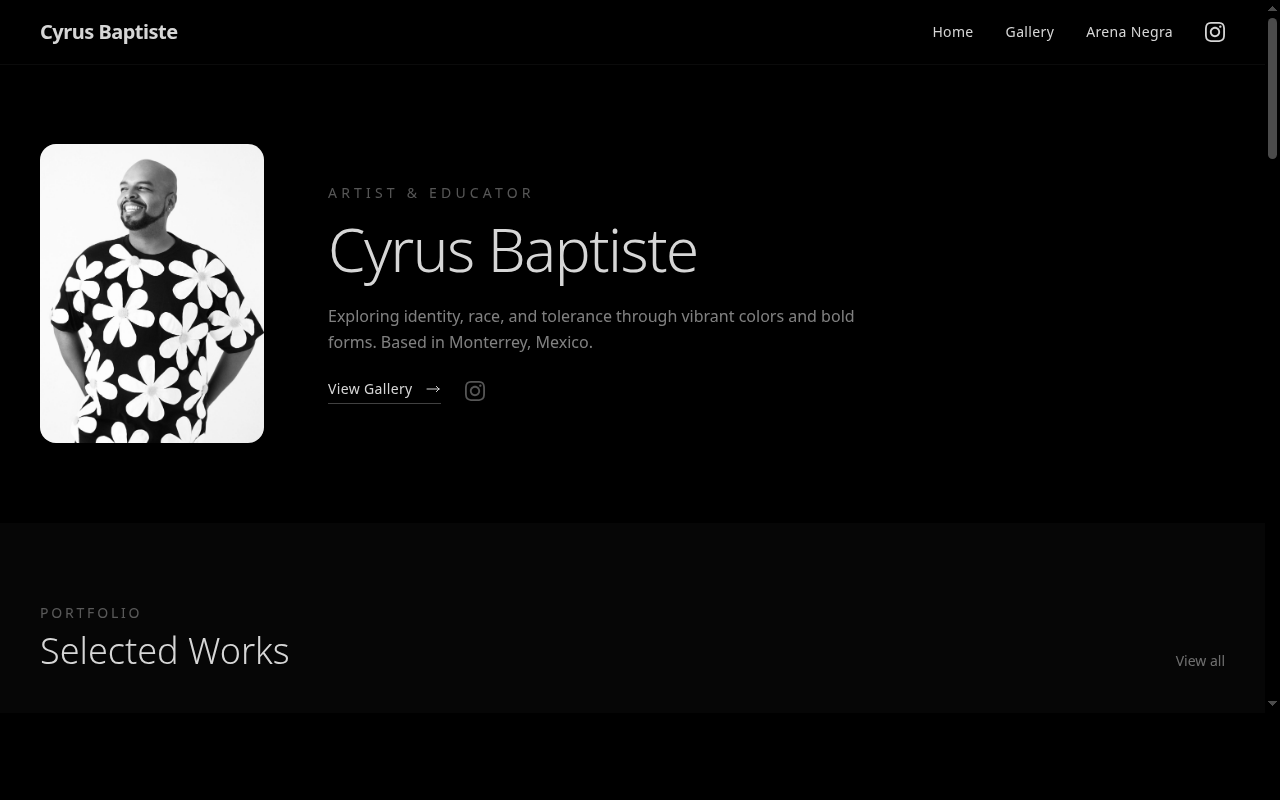
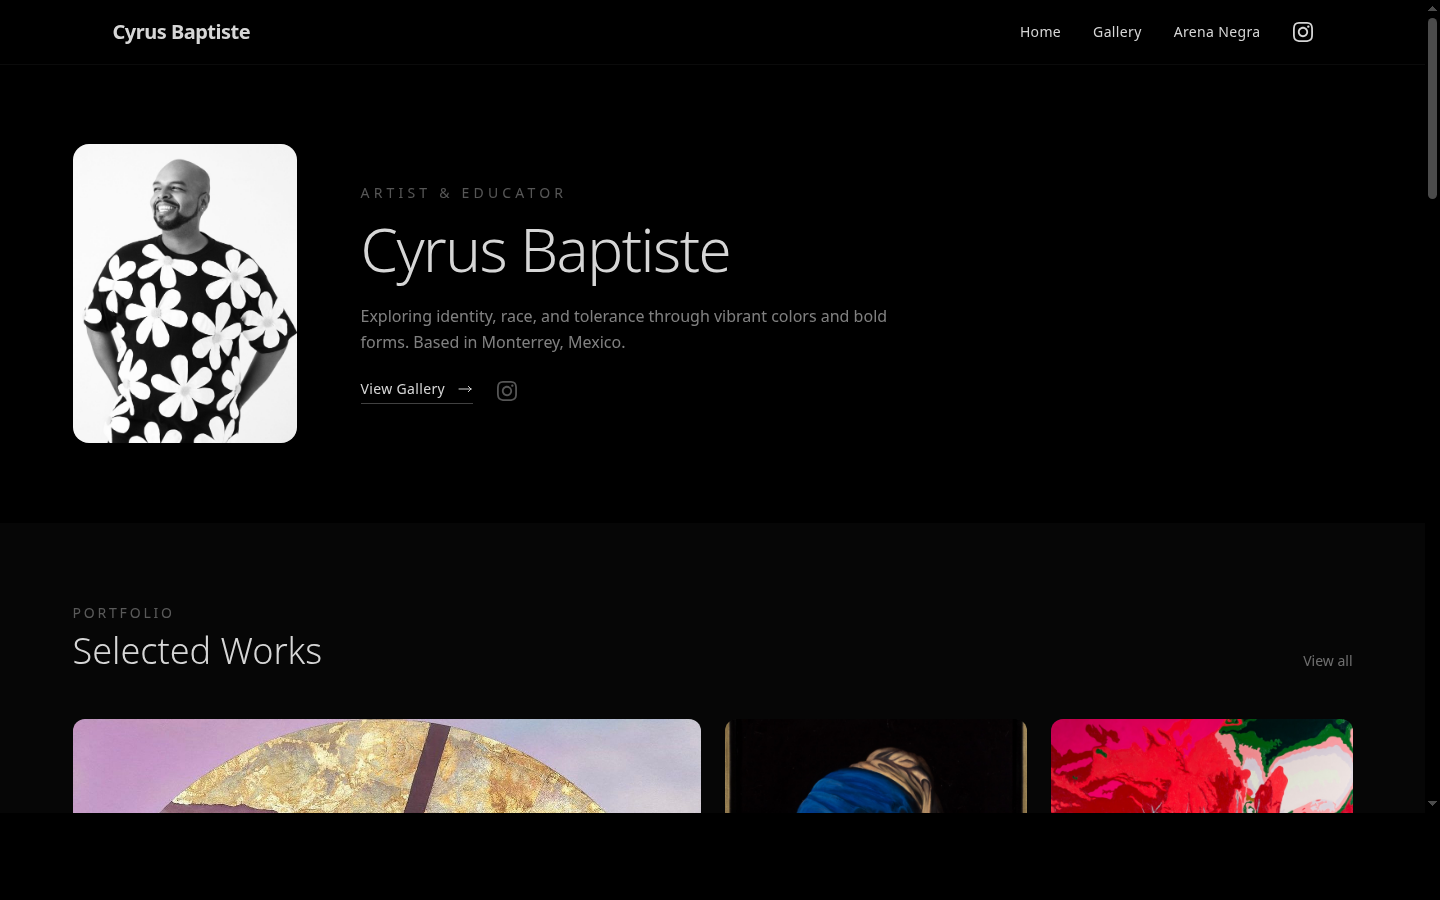
Add real screenshots from live sites as static assets

diff --git a/app/javascript/components/Works.jsx b/app/javascript/components/Works.jsx
@@ -60,7 +60,7 @@ const MY_PROJECTS = [
       { name: 'Active Storage' },
       { name: 'Kamal' },
     ],
-    image: 'https://image.thum.io/get/width/1200/crop/630/noanimate/https://gloriasembroideryshop.com',
+    image: '/images/projects/shopzilla.png',
     source_code_link: 'https://github.com/chrisbaptiste83/shopzilla',
     live_link: 'https://gloriasembroideryshop.com',
   },
@@ -74,7 +74,7 @@ const MY_PROJECTS = [
       { name: 'Devise' },
       { name: 'ActiveAdmin' },
     ],
-    image: 'https://image.thum.io/get/width/1200/crop/630/noanimate/https://libra-arcana.online',
+    image: '/images/projects/libra_arcana.png',
     source_code_link: 'https://github.com/chrisbaptiste83/libra_arcana',
     live_link: 'https://libra-arcana.online',
   },
@@ -88,7 +88,7 @@ const MY_PROJECTS = [
       { name: 'Turbo' },
       { name: 'PostgreSQL' },
     ],
-    image: 'https://image.thum.io/get/width/1200/crop/630/noanimate/https://tethered.site',
+    image: '/images/projects/tethered.png',
     source_code_link: 'https://github.com/chrisbaptiste83/social_media_app',
     live_link: 'https://tethered.site',
   },
@@ -102,7 +102,7 @@ const MY_PROJECTS = [
       { name: 'GSAP' },
       { name: 'Kamal' },
     ],
-    image: 'https://image.thum.io/get/width/1200/crop/630/noanimate/https://cyrusbaptiste.com',
+    image: '/images/projects/cyrus_portfolio.png',
     source_code_link: 'https://github.com/chrisbaptiste83/cyrus-portfolio',
     live_link: 'https://cyrusbaptiste.com',
   },

diff --git a/app/models/project.rb b/app/models/project.rb
@@ -7,17 +7,18 @@ class Project < ApplicationRecord
   scope :featured, -> { where(featured: true) }
   scope :ordered, -> { order(created_at: :desc) }
 
+  SCREENSHOT_PATHS = {
+    "https://gloriasembroideryshop.com" => "/images/projects/shopzilla.png",
+    "https://libra-arcana.online"       => "/images/projects/libra_arcana.png",
+    "https://fit-track.space"           => "/images/projects/fit_tracker.png",
+    "https://tethered.site"             => "/images/projects/tethered.png",
+    "https://mikescantina.live"         => "/images/projects/mikes_cantina.png",
+    "https://cyrusbaptiste.com"         => "/images/projects/cyrus_portfolio.png"
+  }.freeze
+
   def tags_array
     return [] if tags.blank?
     tags.is_a?(Array) ? tags : JSON.parse(tags) rescue []
-  end
-
-  SCREENSHOT_OVERRIDES = {
-    "https://fit-track.space" => "https://fit-track.space/session/new"
-  }.freeze
-
-  def screenshot_url
-    SCREENSHOT_OVERRIDES.fetch(live_url, live_url)
   end
 
   def as_json_for_frontend
@@ -25,7 +26,7 @@ class Project < ApplicationRecord
       name: title,
       description: description,
       tags: tags_array.map { |tag| { name: tag, color: "blue-text-gradient" } },
-      image: live_url.present? ? "https://image.thum.io/get/width/1200/crop/630/noanimate/#{screenshot_url}" : nil,
+      image: SCREENSHOT_PATHS[live_url],
       source_code_link: github_url,
       live_link: live_url
     }
